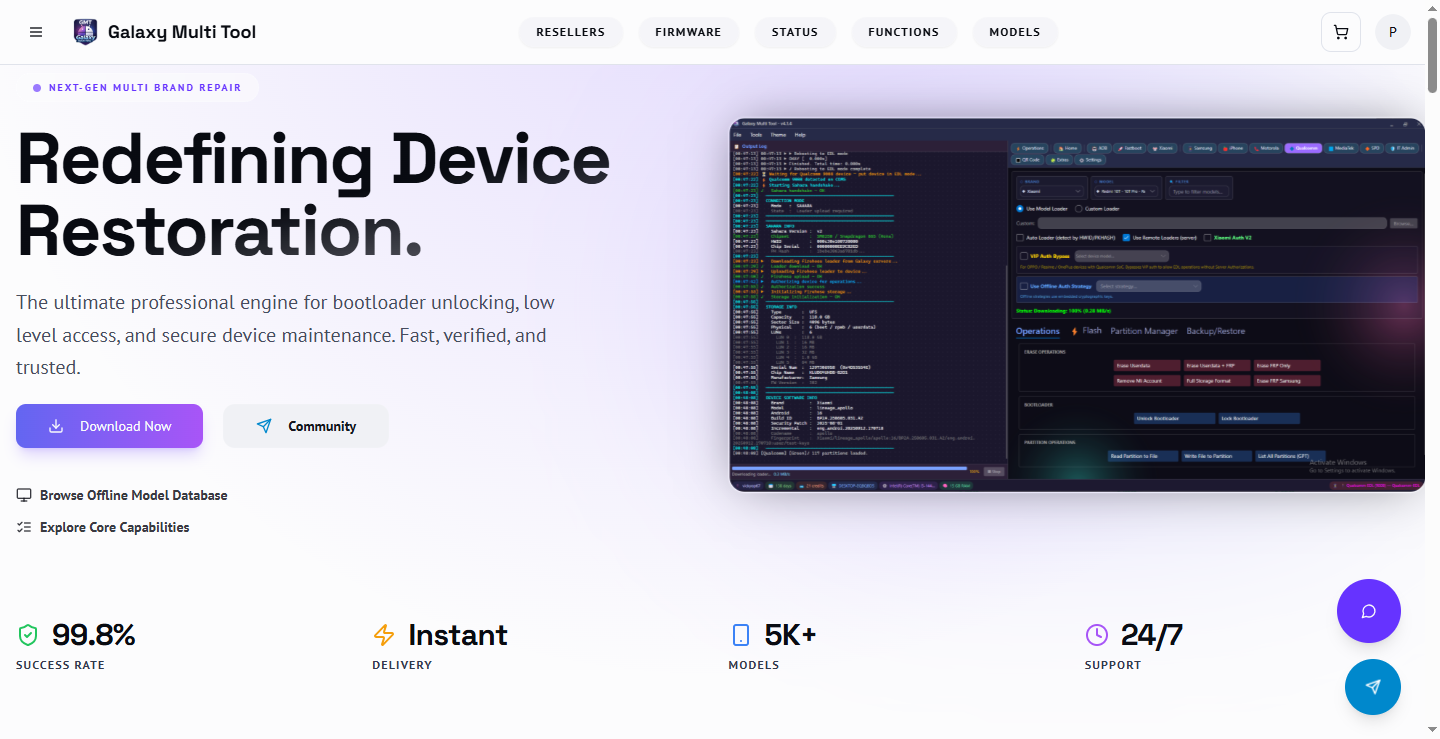
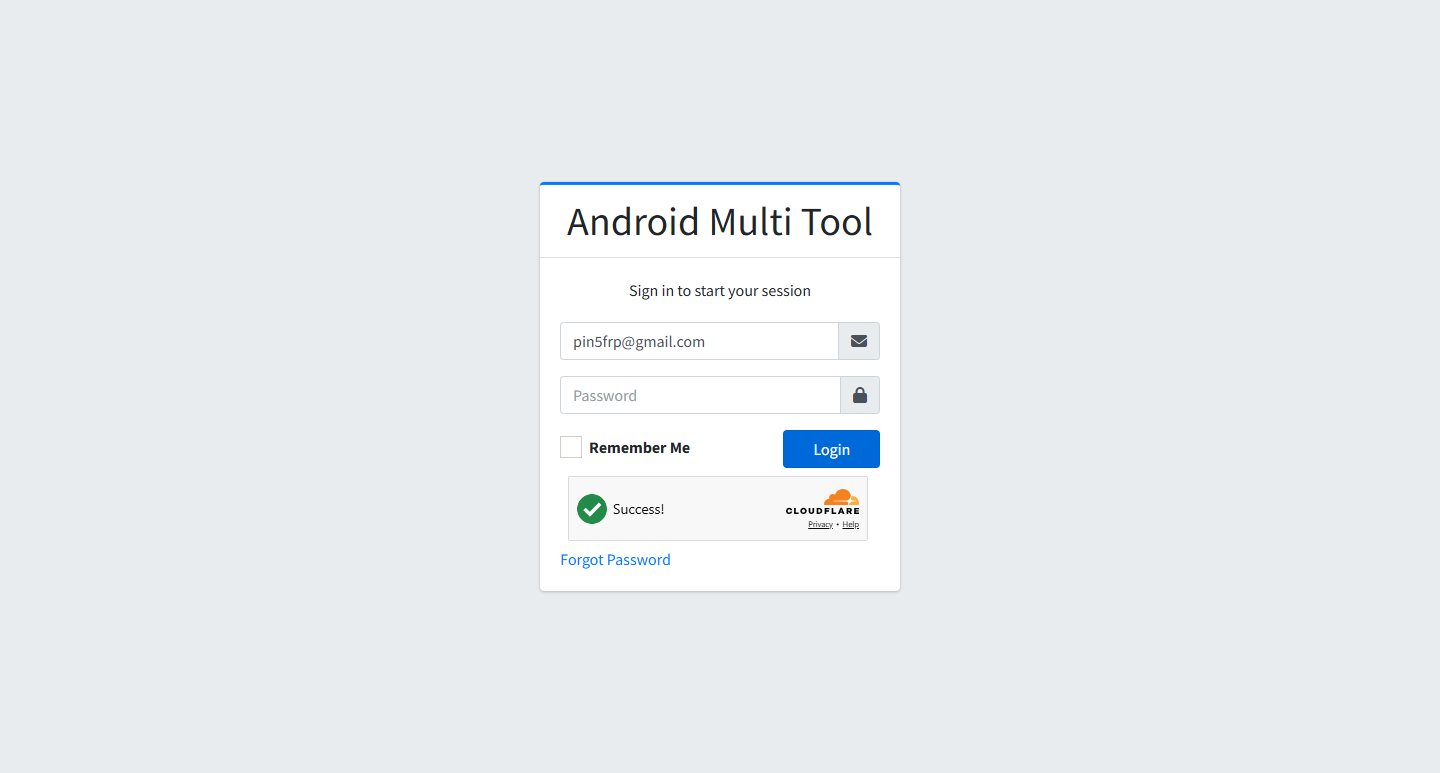
6

diff --git a/bot_core.py b/bot_core.py
@@ -159,30 +159,85 @@ class Rotator:
 
     async def _write_new_code_in_admin(self, admin_page, code_id: str,
                                        new_code: str, mark_available: bool):
-        btn = admin_page.locator(f'#soldOutCodeTable button#editCode[data-id="{code_id}"]')
-        await btn.scroll_into_view_if_needed()
-        await btn.click()
-        await admin_page.wait_for_selector("#viewCode.show", timeout=10000)
+        """
+        Robustly open the edit modal, fill in the new code, and submit.
+        Retries up to 3 times with a Sold Out tab refresh between attempts
+        in case the row was removed by an auto-refresh.
+        """
+        max_attempts = 3
+        last_exc = None
 
-        form = admin_page.locator("#viewCodeContent #updateCodeForm")
-        await form.locator('input[name="code"]').fill(new_code)
-        if mark_available:
-            await form.locator('select[name="markas"]').select_option("Available")
+        for attempt in range(1, max_attempts + 1):
+            try:
+                # Force-close any lingering modal so the next one can open cleanly.
+                try:
+                    if await admin_page.locator("#viewCode.show").count():
+                        await admin_page.keyboard.press("Escape")
+                        await asyncio.sleep(0.5)
+                except Exception:
+                    pass
 
-        await form.locator('button[type="submit"]').click()
-        await admin_page.wait_for_selector("#viewCode.show", state="detached", timeout=10000)
+                btn = admin_page.locator(
+                    f'#soldOutCodeTable button#editCode[data-id="{code_id}"]'
+                )
+                if await btn.count() == 0:
+                    # Row might have disappeared due to an auto-refresh.
+                    # Re-open the Sold Out tab and look again.
+                    self.log(f"[admin-retry] row id={code_id} not found — refreshing Sold Out tab")
+                    await self._open_sold_out_tab(admin_page)
+                    btn = admin_page.locator(
+                        f'#soldOutCodeTable button#editCode[data-id="{code_id}"]'
+                    )
+                    if await btn.count() == 0:
+                        raise RuntimeError(f"row id={code_id} not present after refresh")
+
+                await btn.scroll_into_view_if_needed()
+                await btn.click(timeout=5000)
+
+                # Wait up to 8s for the modal — retry if it doesn't appear.
+                await admin_page.wait_for_selector("#viewCode.show", timeout=8000)
+
+                form = admin_page.locator("#viewCodeContent #updateCodeForm")
+                await form.locator('input[name="code"]').fill(new_code)
+                if mark_available:
+                    await form.locator('select[name="markas"]').select_option("Available")
+
+                await form.locator('button[type="submit"]').click()
+                await admin_page.wait_for_selector(
+                    "#viewCode.show", state="detached", timeout=10000
+                )
+                return  # success
+
+            except Exception as e:
+                last_exc = e
+                self.log(
+                    f"[admin-retry] id={code_id} attempt {attempt}/{max_attempts} failed: {e!r}"
+                )
+                await asyncio.sleep(1.5)
+
+        raise RuntimeError(
+            f"admin panel update failed after {max_attempts} attempts "
+            f"for id={code_id}: {last_exc!r}"
+        )
 
     # ============================================================
-    # Remote service re-connect (when an inventory runs out of codes)
+    # Remote service re-connect (runs AFTER rotation)
     # ============================================================
 
     async def _ensure_remote_connected(self, admin_page, inv: str,
-                                       hold: dt.timedelta) -> bool:
-        """If `inv` has 0 available codes but has expired sold-out rows, reconnect."""
+                                       rotated_this_run: int) -> bool:
+        """
+        Re-connect the remote service to this inventory IF:
+          - we just rotated at least one row this run (evidence of demand), AND
+          - the inventory still has 0 available codes.
+        """
         if self.stop_flag:
             return False
 
-        # ---- 1. Check available count ----
+        if rotated_this_run == 0:
+            return False
+
+        # ---- Check available count ----
         await self._open_inventory(admin_page, inv)
         if self.stop_flag:
             await self._close_modal(admin_page)
@@ -193,47 +248,19 @@ class Rotator:
             ).inner_text(timeout=5000)
         except Exception:
             avail_txt = ""
+        await self._close_modal(admin_page)
+
         m = re.search(r"(\d+)", avail_txt or "")
         avail_num = int(m.group(1)) if m else -1
 
         if avail_num != 0:
-            await self._close_modal(admin_page)
             if avail_num < 0:
                 self.log(f"[connect] [{inv}] could not read available count — skipping")
+            else:
+                self.log(f"[connect] [{inv}] available={avail_num} after rotation — no need to reconnect")
             return False
 
-        # ---- 2. Look for expired sold-out rows ----
-        try:
-            await self._open_sold_out_tab(admin_page)
-            rows = await self._read_rows(admin_page, inv)
-        except Exception:
-            rows = []
-        finally:
-            await self._close_modal(admin_page)
-
-        if self.stop_flag:
-            return False
-
-        if not rows:
-            self.log(f"[connect] [{inv}] available=0 but no sold-out rows — nothing to do")
-            return False
-
-        now = dt.datetime.now(TZ)
-        expired = 0
-        for r in rows:
-            try:
-                age = now - parse_ts(r["sold_out_at"])
-            except Exception:
-                continue
-            if age >= hold:
-                expired += 1
-
-        if expired == 0:
-            self.log(f"[connect] [{inv}] available=0 but no expired sold-out rows — nothing to do")
-            return False
-
-        # ---- 3. Trigger the Remote Services re-connect ----
-        self.log(f"[connect] [{inv}] available=0 + {expired} expired row(s) — "
+        self.log(f"[connect] [{inv}] available=0 and rotated {rotated_this_run} row(s) — "
                  f"triggering remote service re-connect")
 
         remote_title = REMOTE_SERVICE_MAP.get(inv)
@@ -607,12 +634,6 @@ class Rotator:
     # ---------------- UNLOCK Tool ----------------
 
     async def _vendor_login_unlocktool(self, ctx, cfg, email, password):
-        """
-        Two-phase login with manual Cloudflare handling.
-        Phase 1: open login page, wait INDEFINITELY for Turnstile to pass
-                 (user must click the checkbox if it doesn't auto-solve).
-        Phase 2: fill credentials, submit, wait for dashboard.
-        """
         page = await ctx.new_page()
         page.set_default_timeout(30000)
         try:
@@ -629,8 +650,6 @@ class Rotator:
             self.log("[vendor] The bot is waiting — no time limit.")
             self.log("=" * 60)
 
-            # Wait indefinitely for the Turnstile token.
-            # We check every 2 seconds forever until it appears.
             waited = 0
             token_present = False
             while not self.stop_flag:
@@ -642,7 +661,6 @@ class Rotator:
                         }"""
                     )
                 except Exception:
-                    # Page might have navigated or closed — retry
                     token_present = False
 
                 if token_present:
@@ -659,7 +677,6 @@ class Rotator:
                 self.log("[vendor] stop requested during Cloudflare wait — aborting")
                 raise RuntimeError("Stopped during Cloudflare wait")
 
-            # Fill credentials and submit
             await page.fill('input[name="username"]', email)
             await page.fill('input[name="password"]', password)
 
@@ -849,7 +866,18 @@ class Rotator:
             self.current_user = None
             return False
 
-        await self._write_new_code_in_admin(admin_page, row["id"], new_code, mark_available)
+        # ---- Admin panel update (with retry + loud sync-fail logging) ----
+        try:
+            await self._write_new_code_in_admin(admin_page, row["id"], new_code, mark_available)
+        except Exception as e:
+            self.log(f"[SYNC-FAIL] [{inv}] {user} — vendor password is {new_pw} "
+                     f"but ADMIN panel was NOT updated")
+            self.log(f"[SYNC-FAIL] [{inv}] {user} — reason: {e!r}")
+            self.log(f"[SYNC-FAIL] [{inv}] {user} — MANUAL FIX REQUIRED: update admin "
+                     f"code to 🆔 {user} 🔑 {new_pw}")
+            self.current_user = None
+            return False
+
         self.log(f"[admin-pass] [{inv}] {user}  ->  "
                  f"ADMIN code set to: {new_code}")
         self.log(f"[ok] [{inv}] {user} rotated (mark_available={mark_available})")
@@ -861,14 +889,7 @@ class Rotator:
                                  mark_available: bool) -> int:
         rotated = 0
 
-        try:
-            reconnected = await self._ensure_remote_connected(admin_page, inv, hold)
-            if reconnected:
-                self.log(f"[connect] [{inv}] re-connected — waiting 10s for codes to refresh")
-                await asyncio.sleep(10)
-        except Exception as e:
-            self.log(f"[connect-fail] [{inv}] {e!r}")
-
+        # ---- 1. ROTATE FIRST ----
         await self._open_inventory(admin_page, inv)
         try:
             await self._open_sold_out_tab(admin_page)
@@ -892,6 +913,16 @@ class Rotator:
                 await asyncio.sleep(1.5)
         finally:
             await self._close_modal(admin_page)
+
+        # ---- 2. THEN check if a remote re-connect is needed ----
+        try:
+            reconnected = await self._ensure_remote_connected(admin_page, inv, rotated)
+            if reconnected:
+                self.log(f"[connect] [{inv}] re-connected — waiting 10s for codes to refresh")
+                await asyncio.sleep(10)
+        except Exception as e:
+            self.log(f"[connect-fail] [{inv}] {e!r}")
+
         return rotated
 
     async def run_once(self, targets: Iterable) -> int:
